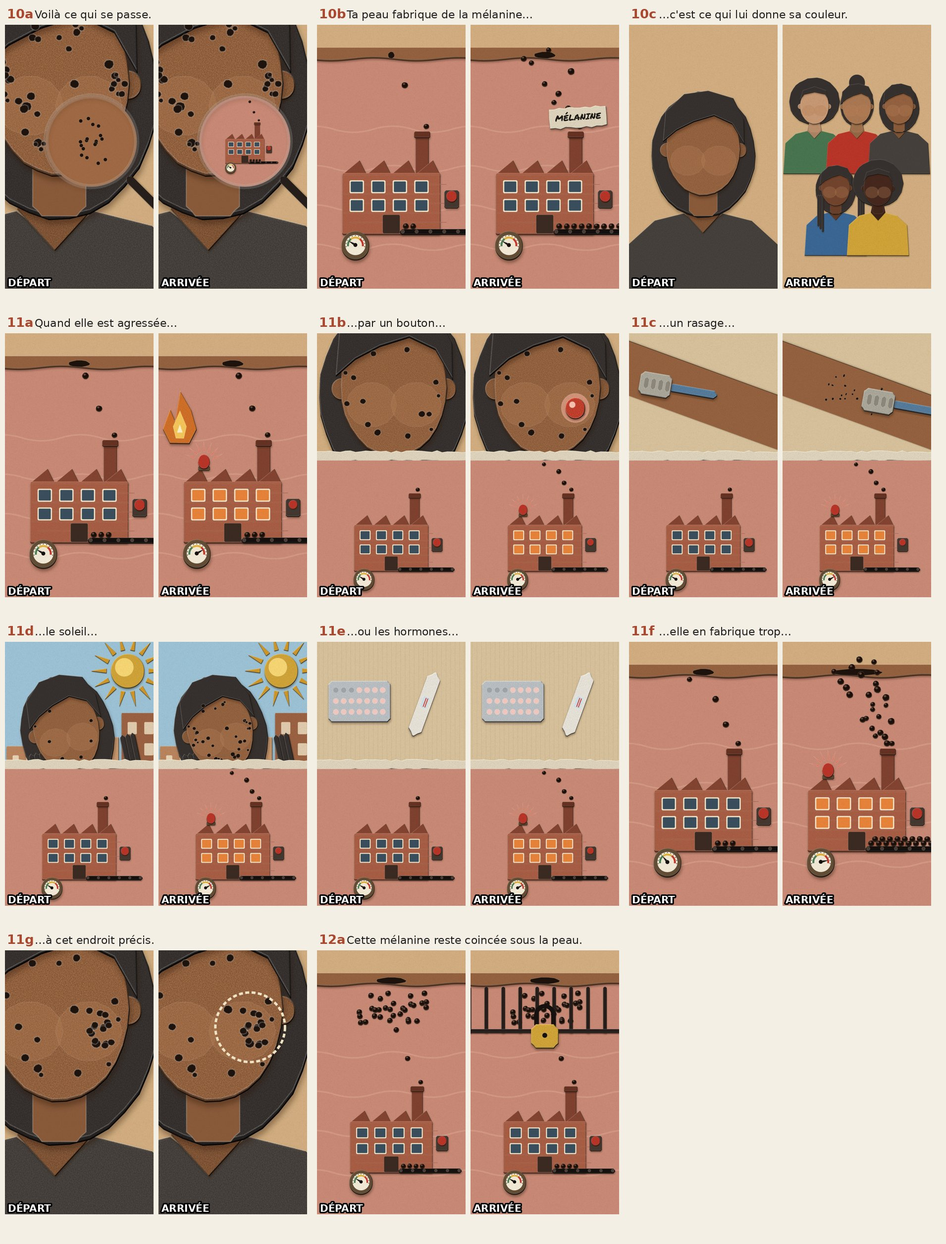
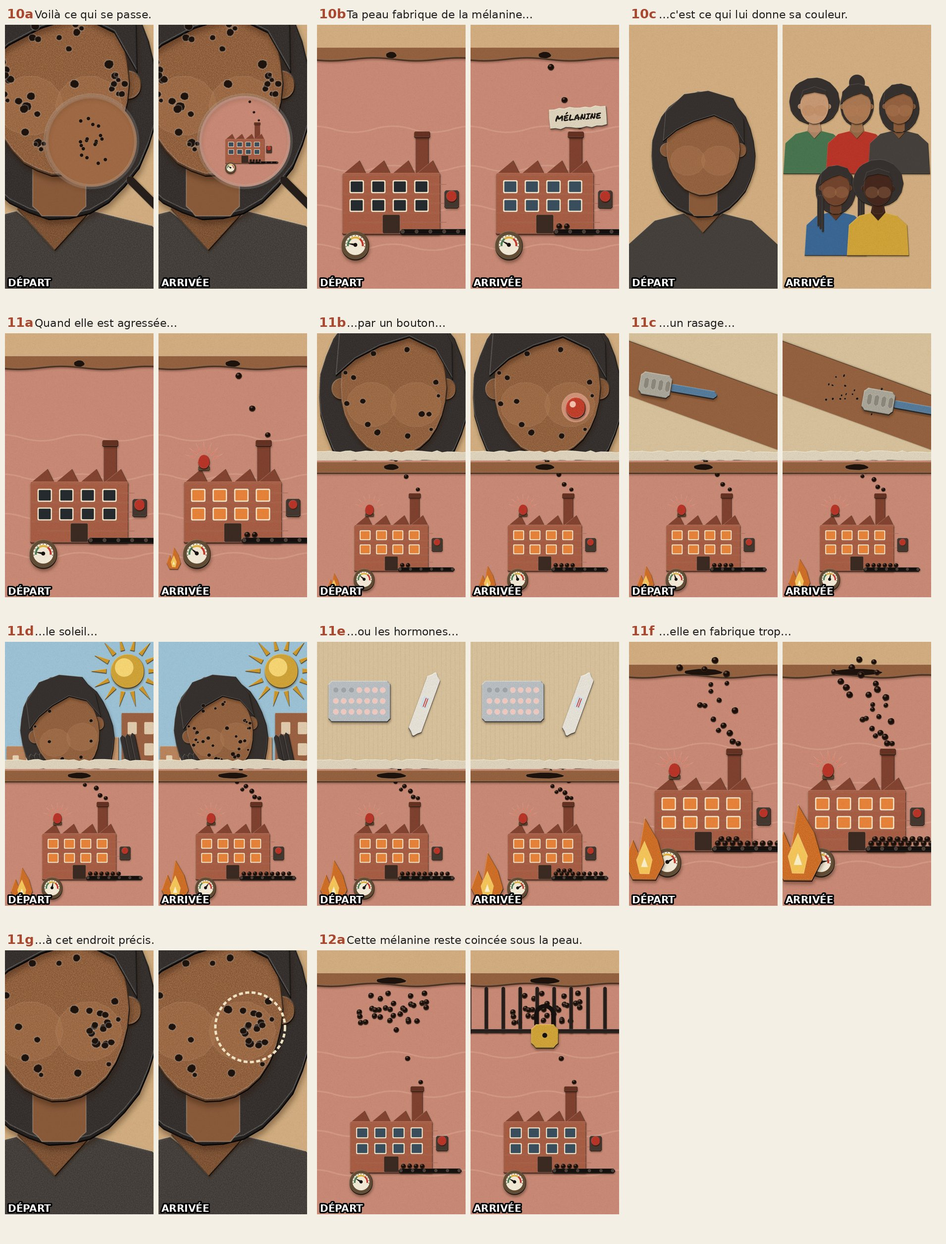
Storyboard: usine progressive (flamme qui grossit par cause, tache correlee), 15a poubelle
Claude-Session: https://claude.ai/code/session_01VzL1MDtc5i1uNUsoDy5uEf

diff --git a/mela-ad/web/sbplans.js b/mela-ad/web/sbplans.js
@@ -43,23 +43,23 @@ P("7d", "…rien ne protège du retour des taches.", (g, e) => { S.plain(g); con
 
 /* 8 · pas toi, dessous */
 P("8a", "Le problème ne vient pas de toi, ni de ta peau…", (g, e) => { S.plain(g, "#D8C29C"); S.body(g, 540, 1900, .8, { hair: "bob", turn: .2, armL: e ? [[-214, -1420], [-360, -1280], [-480, -1380]] : undefined, armR: e ? [[214, -1420], [360, -1280], [480, -1380]] : undefined }); if (e) S.check(g, 200, 380, 110); });
-P("8b", "…mais d'en dessous.", (g, e) => { if (!e) { S.plain(g); const f = S.jaw(g, { hair: "bob" }); S.patches(f, .8); K.arrow(g, 860, 160, 860, 560, Q.red, 56); } else { S.mech(g, { smoke: 6, belt: 5 }); K.arrow(g, 900, 360, 900, 700, Q.red, 56); } });
+P("8b", "…mais d'en dessous.", (g, e) => { if (!e) { S.plain(g); const f = S.jaw(g, { hair: "bob" }); S.patches(f, .8); K.arrow(g, 860, 160, 860, 560, Q.red, 56); } else S.mechL(g, 0); });
 
 /* 9 · agir */
-P("9a", "Et c'est là que tu peux agir.", (g, e) => { const F = S.mech(g, { smoke: 6, belt: 5 }); if (e) { K.ring(g, 540, 1180, 420, Q.green, 18); S.tag(g, "ICI", 860, 560, 90, { string: false, r: 6 }); } });
+P("9a", "Et c'est là que tu peux agir.", (g, e) => { S.mechL(g, 0); if (e) { K.ring(g, 540, 1180, 420, Q.green, 18); S.tag(g, "ICI", 860, 560, 90, { string: false, r: 6 }); } });
 
 /* 10 · mélanine */
 P("10a", "Voilà ce qui se passe.", (g, e) => { S.plain(g); const f = S.jaw(g, { hair: "bob", x: 380 }); S.patches(f, .8); S.loupe(g, 620, 780, 300, c => { if (e) { H.circ(c, 0, 0, 300, "#C98A76", { sh: false, th: 0 }); S.factory(c, { x: 0, y: 60, s: .38, smoke: 4, belt: 4 }); } else { H.circ(c, 0, 0, 300, "#A06A44", { sh: false, th: 0 }); for (let i = 0; i < 18; i++) H.circ(c, Math.cos(i * 2.4) * 160 * ((i % 4) / 4 + .2), Math.sin(i * 2.4) * 160 * ((i % 4) / 4 + .2), 12, "#1E120C", { sh: false, th: 0 }); } }); });
-P("10b", "Ta peau fabrique de la mélanine…", (g, e) => { S.mech(g, { smoke: e ? 10 : 2, belt: e ? 9 : 2, spot: e ? 1 : .3 }); if (e) S.tag(g, "MÉLANINE", 760, 620, 56, { string: false, r: -4 }); });
+P("10b", "Ta peau fabrique de la mélanine…", (g, e) => { S.mech(g, { smoke: e ? 3 : 0, belt: e ? 2 : 0, idle: !e, dial: e ? -60 : -80, spot: e ? .6 : .5 }); if (e) S.tag(g, "MÉLANINE", 760, 620, 56, { string: false, r: -4 }); });
 P("10c", "…c'est ce qui lui donne sa couleur.", (g, e) => { S.plain(g); const tones = ["#D9A67E", "#B98258", "#A06A44", "#7C4A30", "#4B2B1E"], hair = ["afro", "bun", "bob", "braids", "afro"], cl = [Q.green, "#C8392B", K3.CLOTH, Q.blue, "#E2B13C"]; if (!e) K4.face(g, 540, 760, 1.6, { skin: tones[2], hair: "bob", cloth: cl[2] }); else [[260, 520], [540, 520], [820, 520], [400, 1060], [680, 1060]].forEach(([x, y], i) => K4.face(g, x, y, .62, { skin: tones[i], hair: hair[i], cloth: cl[i] })); });
 
 /* 11 · agression */
-P("11a", "Quand elle est agressée…", (g, e) => { S.mech(g, { smoke: 3, belt: 3, alarm: e, dial: e ? 60 : -60, pressed: e }); if (e) S.flame(g, 190, 640, 1.3); });
-P("11b", "…par un bouton…", (g, e) => { S.split(g, T => { S.plain(T); const f = K4.face(T, 540, 260, 2.4, { hair: "bob", turn: .4 }); S.patches(f, .2); if (e) { const pm = K.pimple(f.hd, 28); H.set(pm, { x: 80, y: 60 }); } }, { alarm: e, pressed: e, smoke: e ? 6 : 1, dial: e ? 60 : -60 }); });
-P("11c", "…un rasage…", (g, e) => { S.split(g, T => { S.plain(T, "#D8C29C"); const l = H.grp(T, 540, 420, { j: 0 }); l._b.r = -70; H.rrect(l, -170, -800, 340, 1600, S.SK, { r: 0, jit: 0, th: 10 }); if (e) S.freckles(l, -100, -200, 200, 360, 22, 6, 6); const rz = K.razor(T, 1.4); H.set(rz, { x: e ? 760 : 300, y: e ? 470 : 360, r: 10 }); }, { alarm: e, pressed: e, smoke: e ? 6 : 1, dial: e ? 60 : -60 }); });
-P("11d", "…le soleil…", (g, e) => { S.split(g, T => { S.street(T); const su = K3.sunBig(T, 110); H.set(su, { x: 860, y: 200 }); const f = K4.face(T, 440, 520, 1.5, { hair: "braids", turn: .5, tilt: -12 }); S.patches(f, e ? .5 : .1); }, { alarm: e, pressed: e, smoke: e ? 6 : 1, dial: e ? 60 : -60 }); });
-P("11e", "…ou les hormones…", (g, e) => { S.split(g, T => { S.board(T, "#D8C29C"); S.blister(T, 330, 400, 1.2); const t = H.grp(T, 760, 420, { j: 0 }); t._b.r = 20; H.rrect(t, -45, -220, 90, 440, "#FBF6EA", { r: 40, jit: 0, th: 6 }); H.rrect(t, -24, -50, 48, 80, "#CFE0E8", { r: 8, jit: 0, sh: false, th: 0 }); H.rrect(t, -6, -42, 6, 64, "#C8392B", { r: 2, jit: 0, sh: false, th: 0 }); H.rrect(t, 6, -42, 6, 64, "#C8392B", { r: 2, jit: 0, sh: false, th: 0 }); }, { alarm: e, pressed: e, smoke: e ? 6 : 1, dial: e ? 60 : -60 }); });
-P("11f", "…elle en fabrique trop…", (g, e) => { S.mech(g, { smoke: e ? 26 : 4, belt: e ? 18 : 3, alarm: e, dial: e ? 78 : -40, spot: e ? 2.4 : 1 }); });
+P("11a", "Quand elle est agressée…", (g, e) => { S.mechL(g, e ? 1 : 0); });
+P("11b", "…par un bouton…", (g, e) => { S.splitL(g, e ? 2 : 1, T => { S.plain(T); const f = K4.face(T, 540, 260, 2.4, { hair: "bob", turn: .4 }); S.patches(f, .2); if (e) { const pm = K.pimple(f.hd, 28); H.set(pm, { x: 80, y: 60 }); } }); });
+P("11c", "…un rasage…", (g, e) => { S.splitL(g, e ? 3 : 2, T => { S.plain(T, "#D8C29C"); const l = H.grp(T, 540, 420, { j: 0 }); l._b.r = -70; H.rrect(l, -170, -800, 340, 1600, S.SK, { r: 0, jit: 0, th: 10 }); if (e) S.freckles(l, -100, -200, 200, 360, 22, 6, 6); const rz = K.razor(T, 1.4); H.set(rz, { x: e ? 760 : 300, y: e ? 470 : 360, r: 10 }); }); });
+P("11d", "…le soleil…", (g, e) => { S.splitL(g, e ? 4 : 3, T => { S.street(T); const su = K3.sunBig(T, 110); H.set(su, { x: 860, y: 200 }); const f = K4.face(T, 440, 520, 1.5, { hair: "braids", turn: .5, tilt: -12 }); S.patches(f, e ? .5 : .1); }); });
+P("11e", "…ou les hormones…", (g, e) => { S.splitL(g, e ? 5 : 4, T => { S.board(T, "#D8C29C"); S.blister(T, 330, 400, 1.2); const t = H.grp(T, 760, 420, { j: 0 }); t._b.r = 20; H.rrect(t, -45, -220, 90, 440, "#FBF6EA", { r: 40, jit: 0, th: 6 }); H.rrect(t, -24, -50, 48, 80, "#CFE0E8", { r: 8, jit: 0, sh: false, th: 0 }); H.rrect(t, -6, -42, 6, 64, "#C8392B", { r: 2, jit: 0, sh: false, th: 0 }); H.rrect(t, 6, -42, 6, 64, "#C8392B", { r: 2, jit: 0, sh: false, th: 0 }); }); });
+P("11f", "…elle en fabrique trop…", (g, e) => { S.mechL(g, e ? 6 : 5); });
 P("11g", "…à cet endroit précis.", (g, e) => { S.plain(g); const f = S.jaw(g, { hair: "bob" }); S.patches(f, .25); for (let i = 0; i < 14; i++) H.blob(f.hd, 86 + Math.cos(i * 2.4) * 34 * ((i % 4) / 3 + .3), 44 + Math.sin(i * 2.4) * 30 * ((i % 4) / 3 + .3), 8, 7, "#1E120C", { n: 9, jit: .15, seed: i, sh: false, th: 0 }); if (e) { const c = f.pt(86, 44); K.ring(g, c[0], c[1], 230, Q.cream, 16); } });
 
 /* 12 · coincée */
@@ -73,7 +73,7 @@ P("14a", "C'est pour ça que la tache reste des mois…", (g, e) => { const m = 
 P("14b", "…et qu'un produit de surface n'y change rien.", (g, e) => { const F = S.mech(g, { smoke: 8, belt: 7, spot: 1.2 }); if (e) H.poly(g, [[-100, 150], [1180, 150], [1180, 190], [-100, 190]], "#F3EEE2", { jit: 2, th: 4 }); else S.hand(g, 540, -40, 1.3, 180, { point: true }); });
 
 /* 15 · pas éclaircir */
-P("15a", "Le but n'est donc pas d'éclaircir ta peau.", (g, e) => { S.board(g, "#D8C29C"); const j = K.jar(g, "#FBF6EA", 2.2); H.set(j, { x: e ? 380 : 540, y: 960, r: e ? -16 : 0 }); S.tag(j, "BLANCHISSANT", 0, 24, 30, { string: false }); if (e) { S.hand(g, 820, 1240, 1.8, -70); S.cross(g, 400, 900, 260); } });
+P("15a", "Le but n'est donc pas d'éclaircir ta peau.", (g, e) => { S.plain(g, "#D8C29C"); S.bin(g, 540, 1420, 1.3, true); const j = K.jar(g, "#FBF6EA", 1.5); S.tag(j, "BLANCHISSANT", 0, 24, 28, { string: false }); if (!e) { H.set(j, { x: 540, y: 700 }); S.hand(g, 540, 560, 1.6, 180); } else { H.set(j, { x: 560, y: 1060, r: 35 }); S.hand(g, 640, 360, 1.6, 200); for (let i = 0; i < 3; i++) H.el("path", { d: `M${480 + i * 70},${780 + i * 20} l-6,150`, stroke: "#6b543a", "stroke-width": 8, "stroke-linecap": "round", opacity: .7 }, g); } });
 
 /* 16 · réguler */
 P("16a", "C'est de réguler ta production de mélanine…", (g, e) => { S.mech(g, { smoke: e ? 2 : 14, belt: e ? 2 : 12, dial: e ? -68 : 72, slow: e, spot: e ? .4 : 1.4 }); });

diff --git a/mela-ad/web/sbkit3.js b/mela-ad/web/sbkit3.js
@@ -11,7 +11,7 @@ S.factory = (g, o = {}) => { const x = o.x ?? 540, y = o.y ?? 1080, s = o.s ?? 1
   H.rrect(q, 170, -470, 90, 290, "#8A4632", { r: 6, jit: 0, th: 8 }); H.rrect(q, 160, -490, 110, 40, "#6E3624", { r: 6, jit: 0, th: 5 });
   const roof = [[-340, -190]]; for (let i = 0; i < 4; i++) roof.push([-340 + i * 170 + 120, -290], [-340 + (i + 1) * 170, -190]); H.poly(q, roof, "#8E4A34", { jit: 0, th: 8 });
   H.rrect(q, -340, -200, 680, 420, "#B5654A", { r: 6, jit: 0, th: 10 }); for (let r = 0; r < 6; r++) for (let c = 0; c < 9; c++) H.rrect(q, -330 + c * 76 + (r % 2) * 38, -190 + r * 66, 70, 6, "#9C543C", { r: 2, jit: 0, sh: false, th: 0, attr: { opacity: .6 } });
-  for (let r = 0; r < 2; r++) for (let c = 0; c < 4; c++) { H.rrect(q, -290 + c * 150, -150 + r * 130, 100, 90, "#F3E6C8", { r: 6, jit: 0, sh: false, th: 0 }); H.rrect(q, -282 + c * 150, -142 + r * 130, 84, 74, o.alarm ? "#E8833A" : "#3A4F5E", { r: 4, jit: 0, sh: false, th: 0 }); }
+  for (let r = 0; r < 2; r++) for (let c = 0; c < 4; c++) { H.rrect(q, -290 + c * 150, -150 + r * 130, 100, 90, "#F3E6C8", { r: 6, jit: 0, sh: false, th: 0 }); H.rrect(q, -282 + c * 150, -142 + r * 130, 84, 74, o.alarm ? "#E8833A" : o.idle ? "#252A2E" : "#3A4F5E", { r: 4, jit: 0, sh: false, th: 0 }); }
   H.rrect(q, -60, 90, 120, 130, "#3A2A22", { r: 6, jit: 0, sh: false, th: 0 });
   const dl = K4.dial(q, -250, 300, 70); H.set(dl.nd, { r: o.dial === undefined ? -60 : o.dial });
   H.rrect(q, 60, 190, 520, 34, Q.blk, { r: 14, jit: 0, th: 6 }); for (let i = 0; i < 6; i++) H.circ(q, 80 + i * 96, 207, 12, "#4A3C34", { sh: false, th: 0 });
@@ -29,3 +29,10 @@ S.split = (g, top, o = {}) => { const T = H.grp(g, 0, 0, { j: 0 }); S.clip(T, "M
 
 /* flamme = agression */
 S.flame = (g, x, y, s = 1) => { const f = H.grp(g, x, y, { j: .5 }), q = H.grp(f, 0, 0, { j: 0 }); H.set(q, { s }); H.poly(q, [[0, -190], [60, -90], [86, 0], [50, 70], [-50, 70], [-86, 0], [-50, -100], [-24, -40]], "#E0782B", { jit: 2, seed: 4, th: 6 }); H.poly(q, [[0, -90], [34, -10], [20, 50], [-20, 50], [-34, -10]], "#F5C65A", { jit: 1, sh: false, th: 0 }); H.poly(q, [[0, -20], [14, 20], [-14, 20]], "#FBF0C8", { jit: 0, sh: false, th: 0 }); return f; };
+
+/* niveau d'emballement 0..5 : flamme, production, tache */
+S.LV = L => ({ smoke: [0, 3, 6, 9, 13, 17, 26][L], belt: [0, 2, 4, 6, 9, 12, 18][L], dial: [-80, -50, -20, 10, 35, 60, 80][L], spot: [.5, .7, .9, 1.1, 1.4, 1.8, 2.4][L], flame: [0, .55, .8, 1.05, 1.3, 1.55, 1.9][L], alarm: L >= 1, idle: L === 0 });
+S.mechL = (g, L, o = {}) => { const v = S.LV(L); const F = S.mech(g, Object.assign({ smoke: v.smoke, belt: v.belt, dial: v.dial, spot: v.spot, alarm: v.alarm, idle: v.idle, pressed: L >= 1 }, o)); if (v.flame) S.flame(g, 150, 1560 - 60 * v.flame, v.flame); return F; };
+S.splitL = (g, L, top) => { const v = S.LV(L); const F = S.split(g, top, { smoke: v.smoke, belt: v.belt, dial: v.dial, alarm: v.alarm, idle: v.idle, pressed: L >= 1, reach: 420 }); const sy = 900; H.rrect(g, -60, 860, 1200, 70, S.SK, { r: 0, jit: 0, th: 6 }); H.blob(g, 540, sy - 6, 70 * v.spot, 20, "#1E120C", { n: 14, jit: .12, sh: false, th: 0 }); if (v.flame) S.flame(g, 160, 1700 - 40 * v.flame, v.flame * .8); return F; };
+/* poubelle */
+S.bin = (g, x, y, s = 1, open = true) => { const b = H.grp(g, x, y, { j: .2 }), q = H.grp(b, 0, 0, { j: 0 }); H.set(q, { s }); H.poly(q, [[-170, -200], [170, -200], [140, 260], [-140, 260]], "#7C8A8F", { jit: 0, th: 10 }); for (let i = 0; i < 5; i++) H.rrect(q, -110 + i * 55, -150, 14, 360, "#6A777B", { r: 6, jit: 0, sh: false, th: 0 }); const lid = H.grp(q, -180, -210, { j: 0 }); lid._b.r = open ? -35 : 0; H.rrect(lid, 0, -20, 360, 40, "#5E6B70", { r: 10, jit: 0, th: 6 }); H.rrect(lid, 150, -50, 60, 30, "#5E6B70", { r: 8, jit: 0, th: 4 }); b.q = q; return b; };
